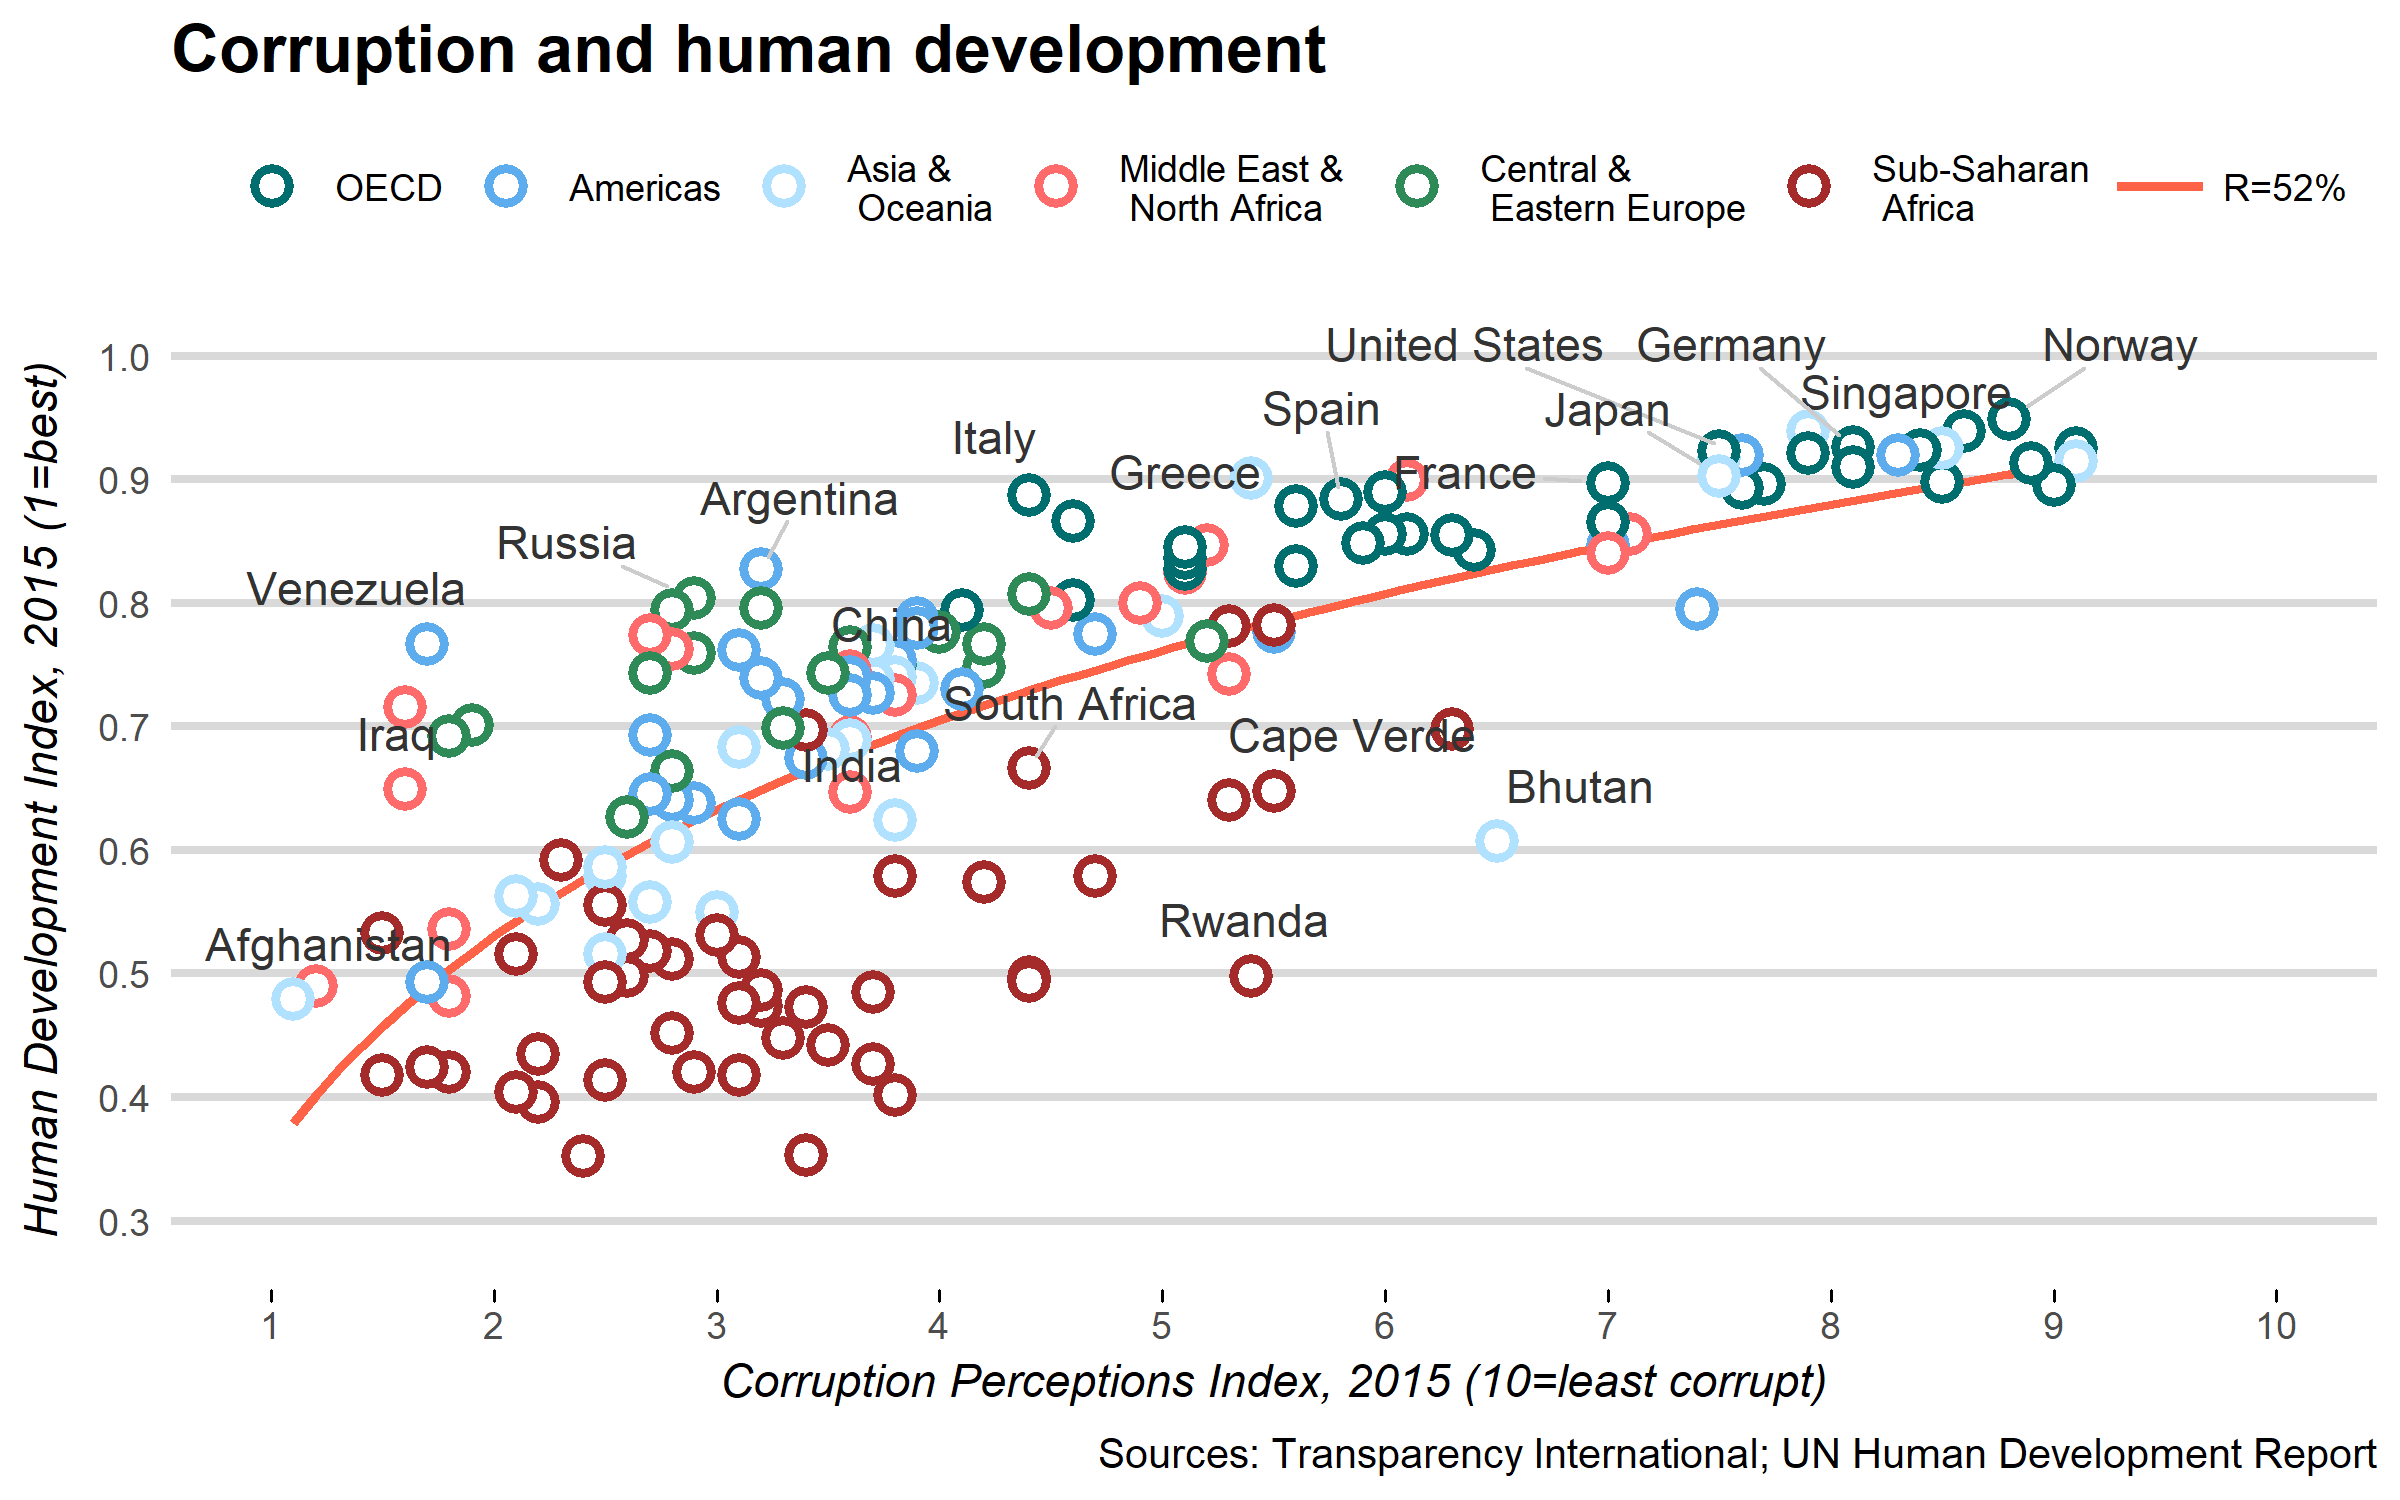
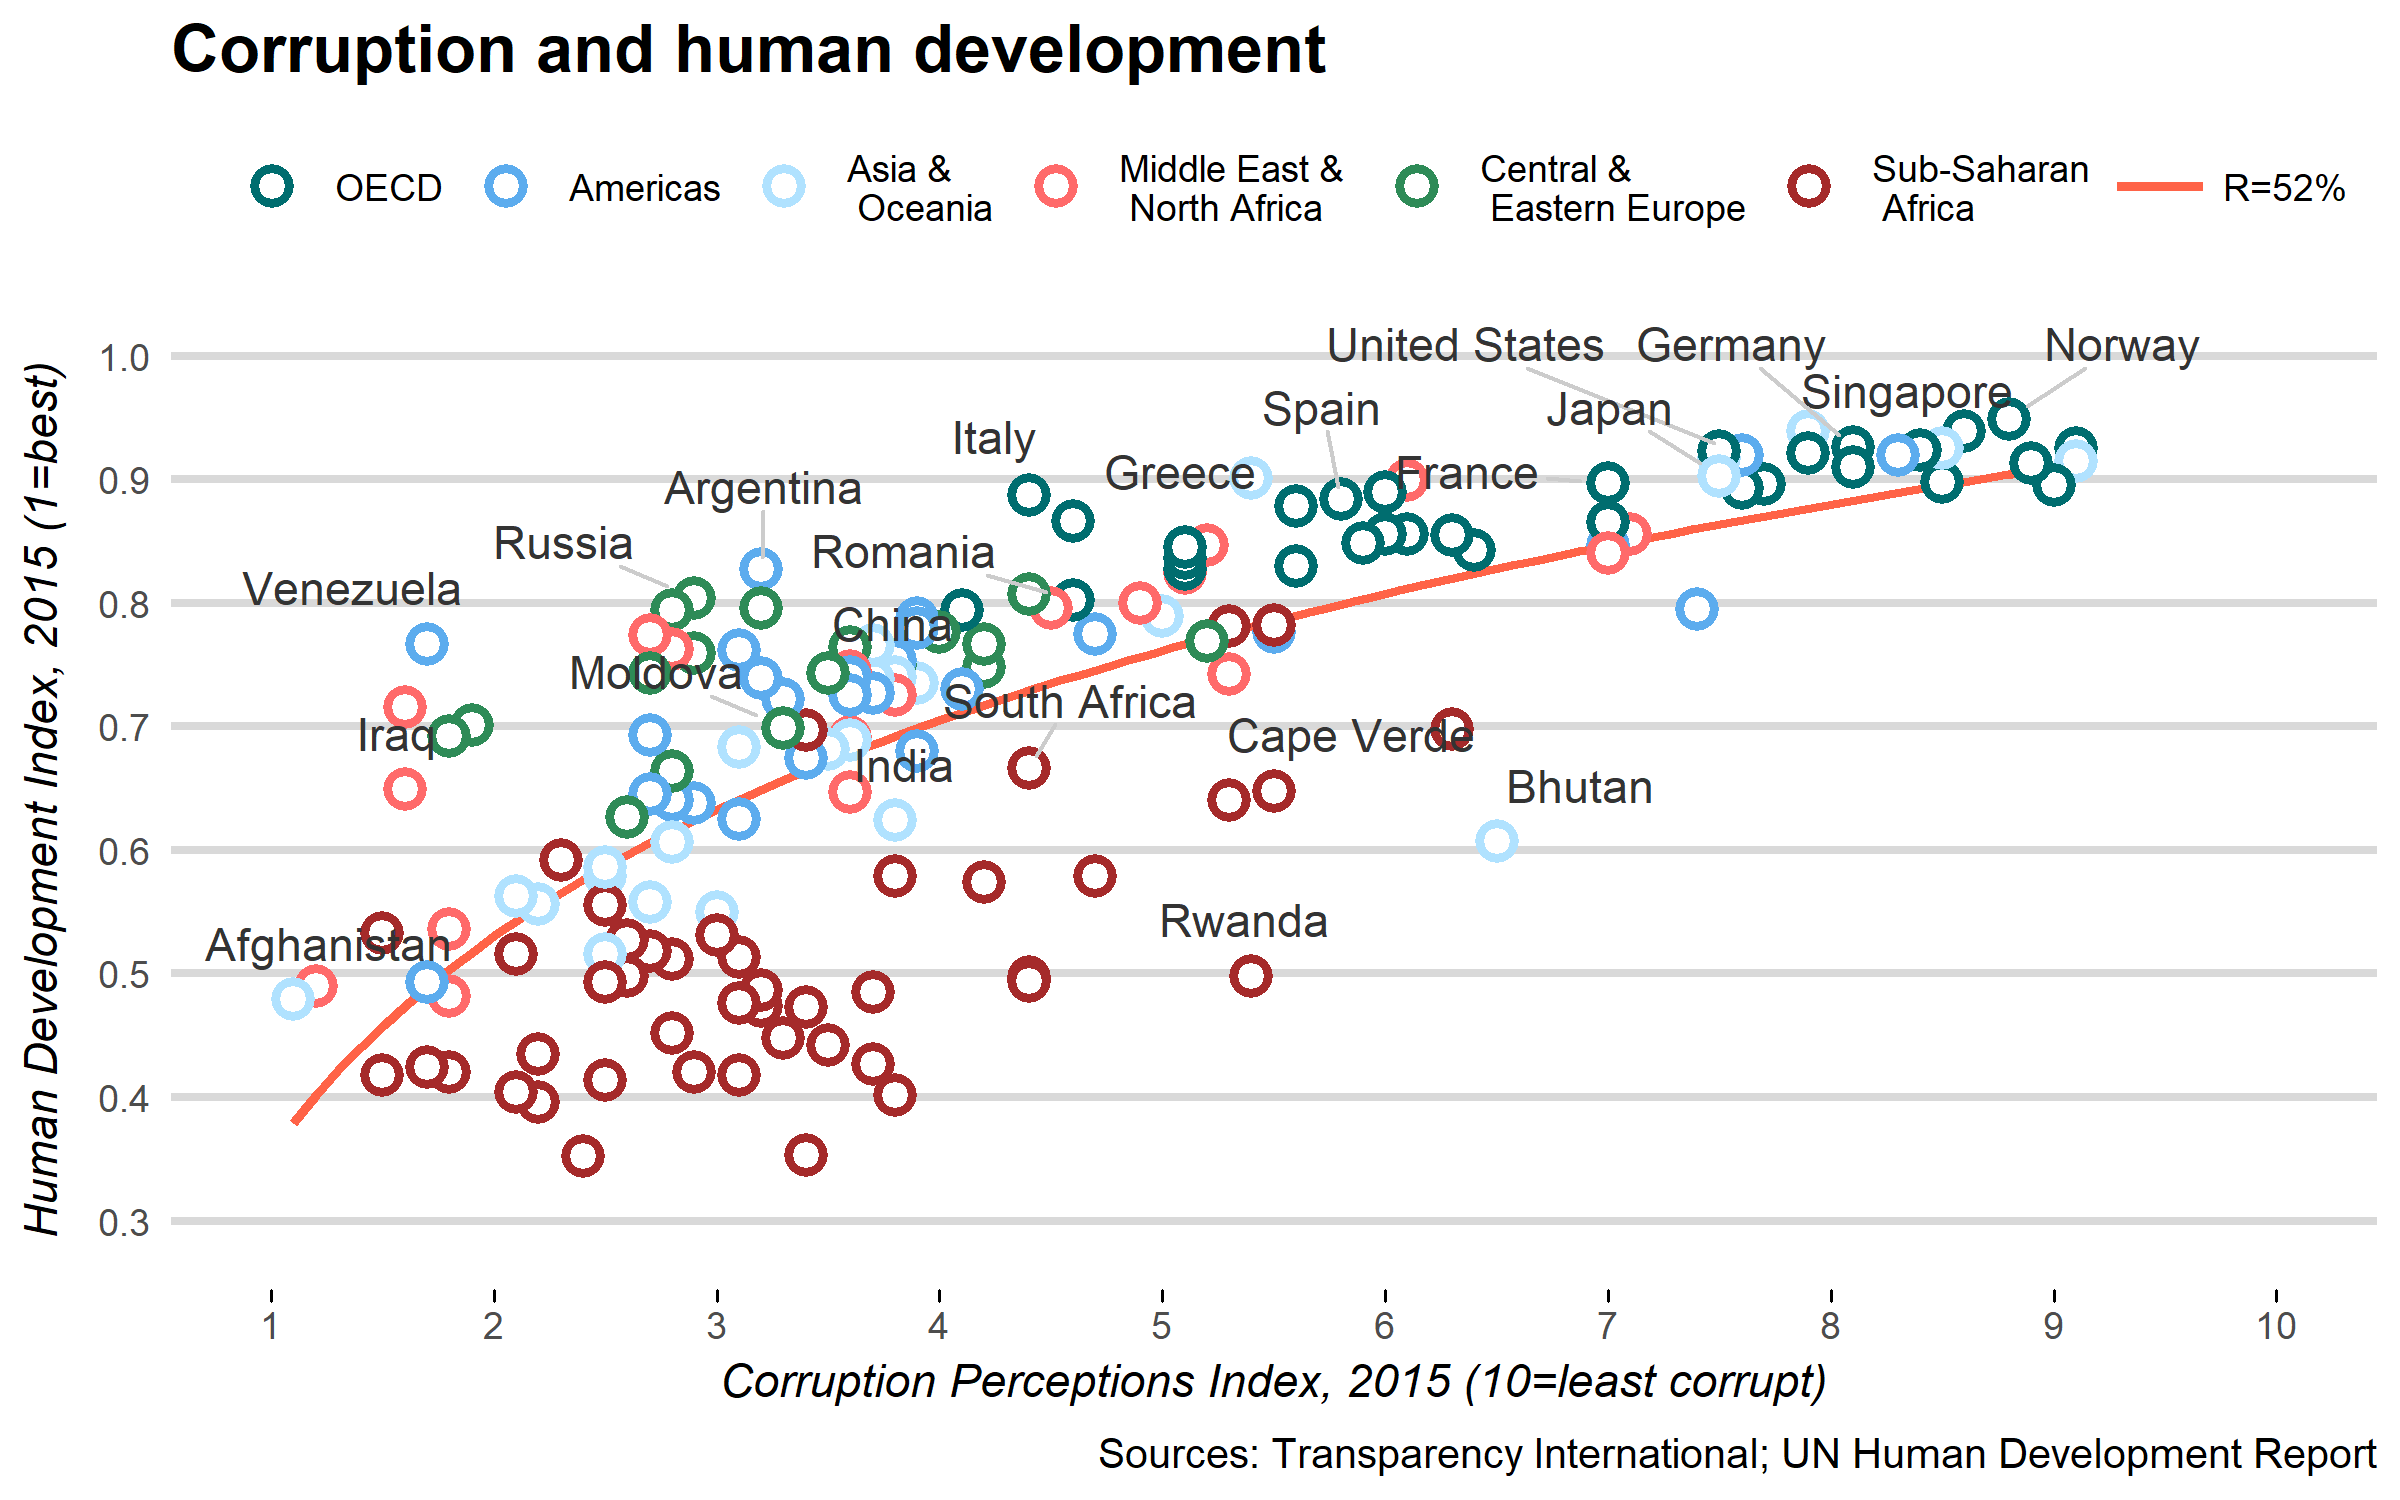
Add Romania and Moldova

diff --git a/content/post/2017-11-25-reproducing-the-economist-chart.html b/content/post/2017-11-25-reproducing-the-economist-chart.html
@@ -129,7 +129,7 @@ country.labels &lt;- c(&quot;New Zeeland&quot;, &quot;Norway&quot;, &quot;Singap
                      &quot;China&quot;, &quot;Rwanda&quot;, &quot;South Africa&quot;, &quot;Greece&quot;, 
                      &quot;Iraq&quot;, &quot;Congo&quot;, &quot;Afghanistan&quot;, 
                      &quot;Venezuela&quot;, &quot;Russia&quot;, &quot;India&quot;, &quot;Bhutan&quot;, 
-                     &quot;Cape Verde&quot;, &quot;Argentina&quot;
+                     &quot;Cape Verde&quot;, &quot;Argentina&quot;, &quot;Romania&quot;, &quot;Moldova&quot;
                     )
 # for colors the trick is to use a named color vector
 # fancy colors, close to the ones chosen by The Economist
@@ -200,7 +200,7 @@ p</code></pre>
 <pre class="r"><code>ggsave(filename = &quot;data/economist.png&quot;, plot = p, width=8, height=5)</code></pre>
 <pre><code>## Warning: Removed 4 rows containing non-finite values (stat_smooth).</code></pre>
 <pre><code>## Warning: Removed 4 rows containing missing values (geom_point).</code></pre>
-<pre><code>## Warning: Removed 148 rows containing missing values (geom_text_repel).</code></pre>
+<pre><code>## Warning: Removed 146 rows containing missing values (geom_text_repel).</code></pre>
 </div>
 <div class="footnotes">
 <hr />

diff --git a/post/2017-11-25-reproducing-the-economist-chart/index.html b/post/2017-11-25-reproducing-the-economist-chart/index.html
@@ -305,7 +305,7 @@ country.labels &lt;- c(&quot;New Zeeland&quot;, &quot;Norway&quot;, &quot;Singap
                      &quot;China&quot;, &quot;Rwanda&quot;, &quot;South Africa&quot;, &quot;Greece&quot;, 
                      &quot;Iraq&quot;, &quot;Congo&quot;, &quot;Afghanistan&quot;, 
                      &quot;Venezuela&quot;, &quot;Russia&quot;, &quot;India&quot;, &quot;Bhutan&quot;, 
-                     &quot;Cape Verde&quot;, &quot;Argentina&quot;
+                     &quot;Cape Verde&quot;, &quot;Argentina&quot;, &quot;Romania&quot;, &quot;Moldova&quot;
                     )
 # for colors the trick is to use a named color vector
 # fancy colors, close to the ones chosen by The Economist
@@ -376,7 +376,7 @@ p</code></pre>
 <pre class="r"><code>ggsave(filename = &quot;data/economist.png&quot;, plot = p, width=8, height=5)</code></pre>
 <pre><code>## Warning: Removed 4 rows containing non-finite values (stat_smooth).</code></pre>
 <pre><code>## Warning: Removed 4 rows containing missing values (geom_point).</code></pre>
-<pre><code>## Warning: Removed 148 rows containing missing values (geom_text_repel).</code></pre>
+<pre><code>## Warning: Removed 146 rows containing missing values (geom_text_repel).</code></pre>
 </div>
 <div class="footnotes">
 <hr />
